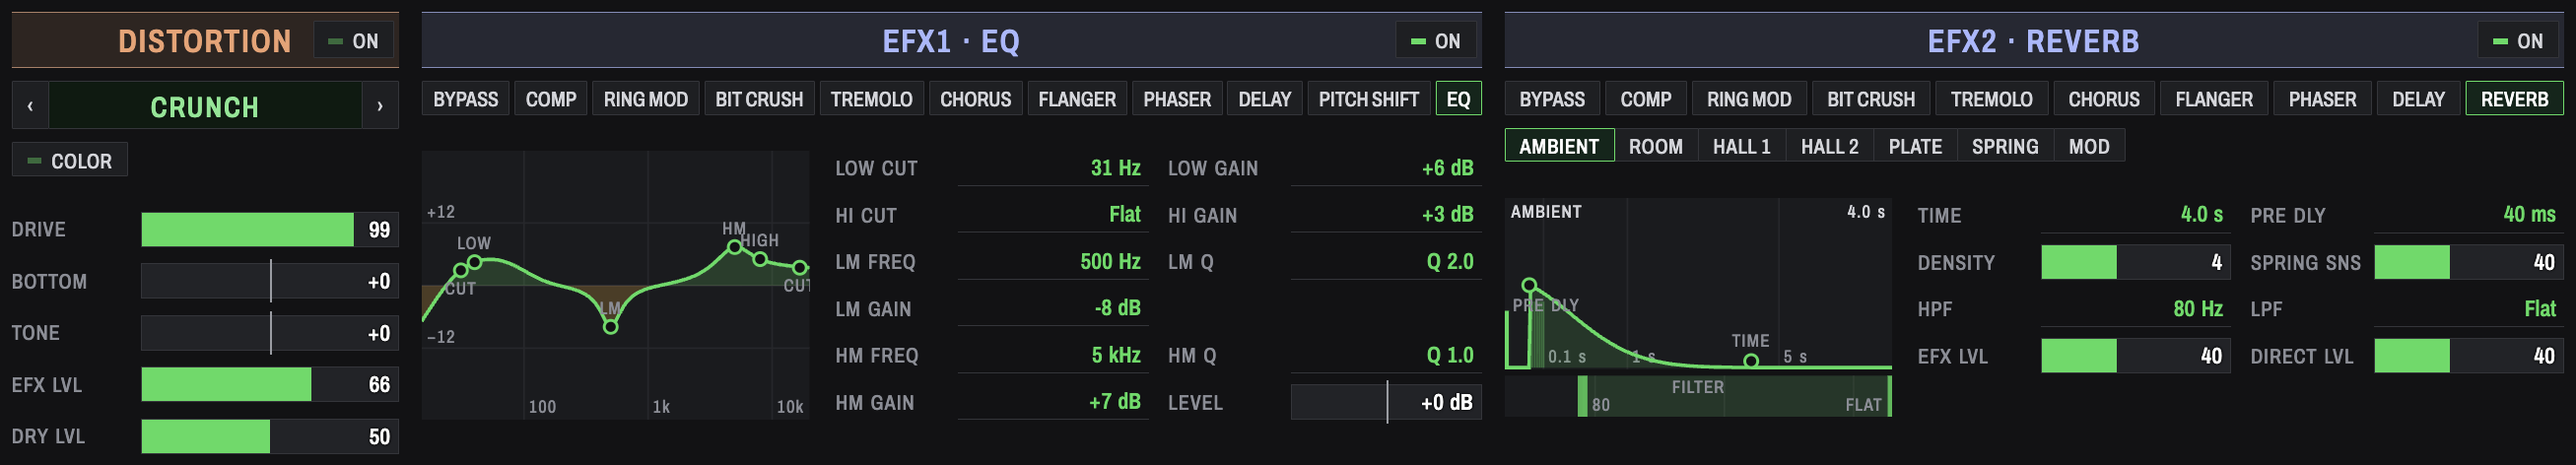
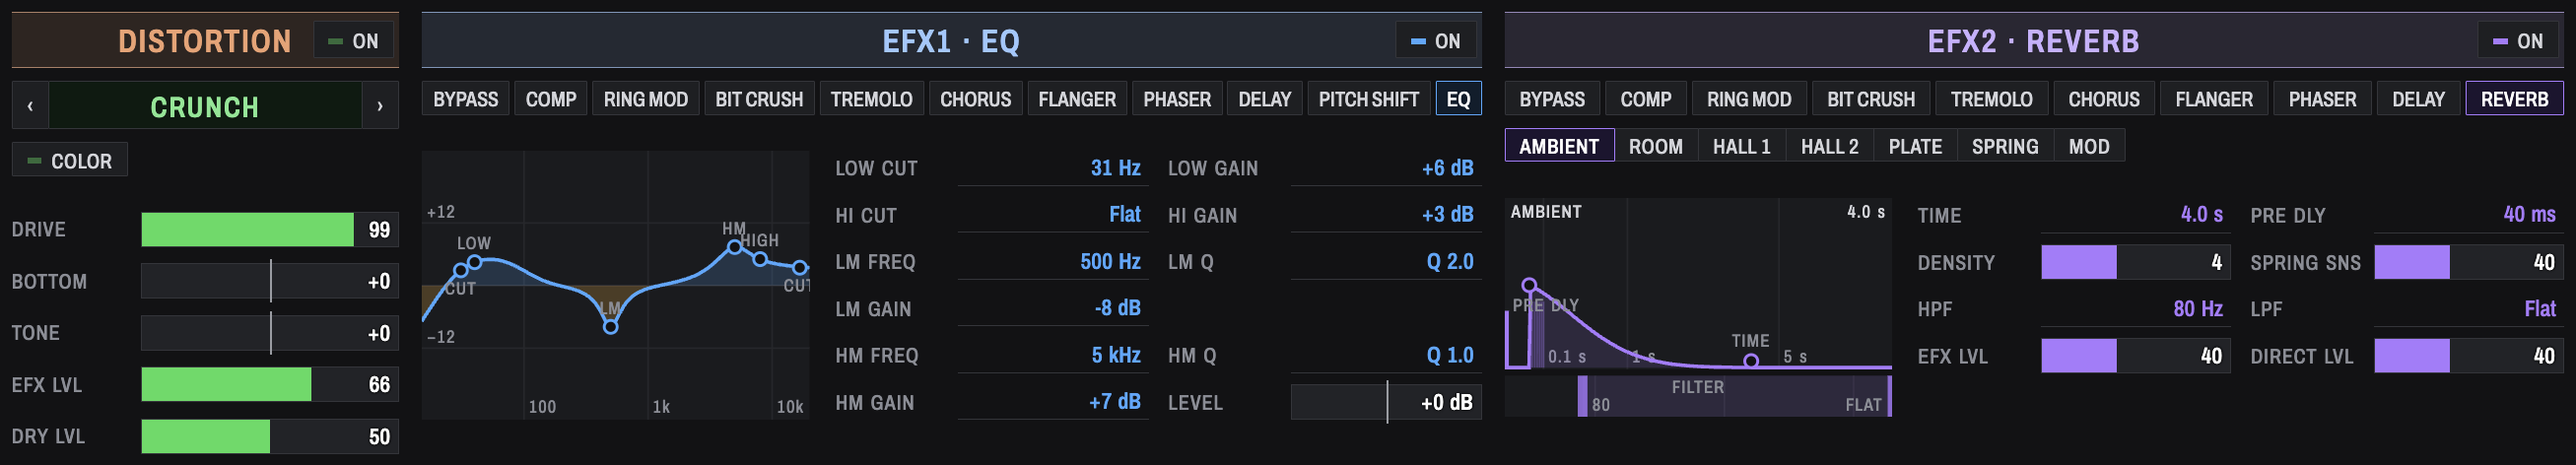
TB-3: EFX1 azure and EFX2 violet, with faders, readouts and drawings in their colour
Drawing fills mix from --led, so the LFO's shapes follow its red too.

diff --git a/apps/tb3/src/styles.css b/apps/tb3/src/styles.css
@@ -195,8 +195,21 @@ button:focus-visible {
 .dist {
   --tint: #f0a070;
 }
-.efx {
-  --tint: #a8b8ff;
+/* EFX1 and EFX2 each have their own colour, which their faders, buttons, readouts and drawings follow (as the LFO's
+   red does): azure for EFX1, violet for EFX2. */
+.efx1 {
+  --tint: #9cc8ff;
+  --led: #4aa8ff;
+  --led-off: #234a6e;
+  --val: #9ccfff;
+  --sel-bg: #0f1d2c;
+}
+.efx2 {
+  --tint: #c9b0ff;
+  --led: #a97bff;
+  --led-off: #45346e;
+  --val: #cbb4ff;
+  --sel-bg: #1c1530;
 }
 /* LFO accents follow the TB-3's red LFO LED. */
 .lfo {
@@ -524,7 +537,7 @@ svg .glabel {
   letter-spacing: 0.06em;
 }
 svg .shape {
-  fill: rgba(61, 220, 90, 0.14);
+  fill: color-mix(in srgb, var(--led) 14%, transparent);
   stroke: var(--led);
   stroke-width: 2;
 }
@@ -535,7 +548,7 @@ svg .trace {
 }
 /* EFX drawings (editor/efx/, ui/draw.tsx), in the EQ's style. */
 svg .area {
-  fill: rgba(61, 220, 90, 0.14);
+  fill: color-mix(in srgb, var(--led) 14%, transparent);
 }
 svg .trace2 {
   fill: none;
@@ -552,11 +565,11 @@ svg .early {
   stroke-opacity: 0.35;
 }
 svg .voice {
-  fill: rgba(61, 220, 90, 0.18);
+  fill: color-mix(in srgb, var(--led) 18%, transparent);
   stroke: none;
 }
 svg .voice.echo {
-  fill: rgba(61, 220, 90, 0.1);
+  fill: color-mix(in srgb, var(--led) 10%, transparent);
 }
 svg .gcap {
   fill: var(--text);

diff --git a/apps/tb3/src/editor/EfxSection.tsx b/apps/tb3/src/editor/EfxSection.tsx
@@ -93,7 +93,7 @@ export function EfxSection(p: { efx: EfxNum }) {
   return (
     <Section
       title={`EFX${p.efx} · ${disabled ? "–" : type.name}`}
-      className="efx"
+      className={`efx efx${p.efx}`}
       extra={
         sw !== undefined && (
           <LedButton

diff --git a/apps/tb3/docs/user-guide.md b/apps/tb3/docs/user-guide.md
@@ -162,6 +162,7 @@ speakers the way it always has. Whether DRAWN or LIVE is selected, and which LIV
   ![The distortion types](images/distortion-types.png)
 
 - **EFX1 and EFX2**: pick the effect type from the row of buttons. ON switches the effect in.
+  EFX1 is blue and EFX2 violet, down to their faders, readouts and pictures, so they're easy to tell apart.
   Some types also have mode buttons, like the reverb's AMBIENT, ROOM and HALL. Every type but
   BYPASS has a picture of what it does, on the left, with handles to drag. A setting you change in
   the picture shows as its name and value on the right; the other settings keep their faders.

diff --git a/docs/tb3-efx-views.md b/docs/tb3-efx-views.md
@@ -37,6 +37,9 @@ Each EFX type except BYPASS has a drawing beside its slots, borrowed from the SP
 | EQ | (TB-3's own EqView) | every band setting but LEVEL |
 | REVERB | ReverbView | TIME, PRE DLY, HPF, LPF |
 
+EFX1 is azure and EFX2 violet: `.efx1` / `.efx2` set `--tint`, `--led`, `--led-off`, `--val` and `--sel-bg`, as the
+LFO's red does, and the drawings' fills mix from `--led`, so faders, buttons, readouts and drawings all follow.
+
 Drawings are 240 px wide, 167 px tall (136 under a row of mode buttons).
 
 ## Guesses to check on the hardware
